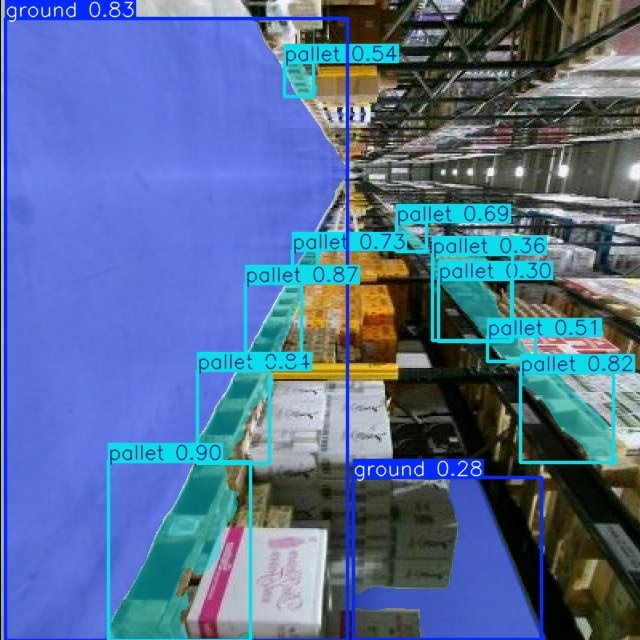
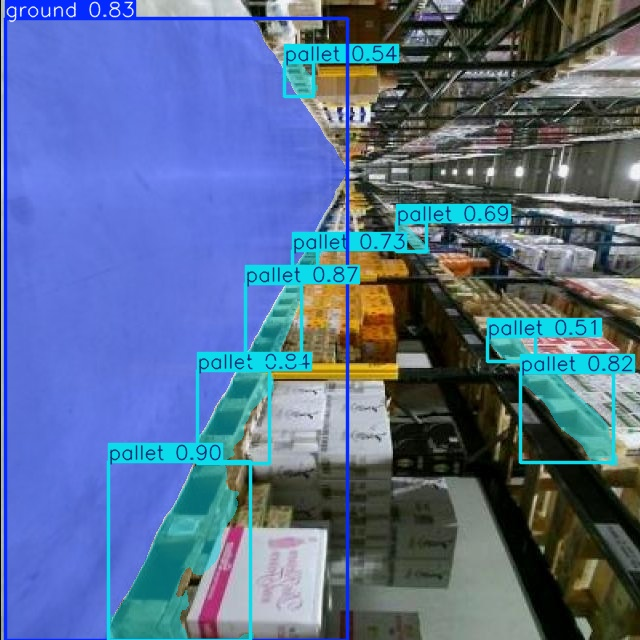
Modify Confidence

Changed region(s): [[0.5312, 0.6875, 0.875, 1.0], [0.6562, 0.3438, 0.875, 0.5625]]

diff --git a/test_yolo_seg.py b/test_yolo_seg.py
@@ -5,4 +5,4 @@ import cv2
 image_name = "/project/Pallets_segment/test/images/1523528-9928_jpg.rf.c3c0b7d079251f6ea4cfd4305e66e11b.jpg"
 ptName = os.path.join("runs", "segment", "train", "weights", "best.pt")
 model = YOLO(ptName)
-result = model(image_name, save=True)
+result = model(image_name, save=True, conf=0.5)
